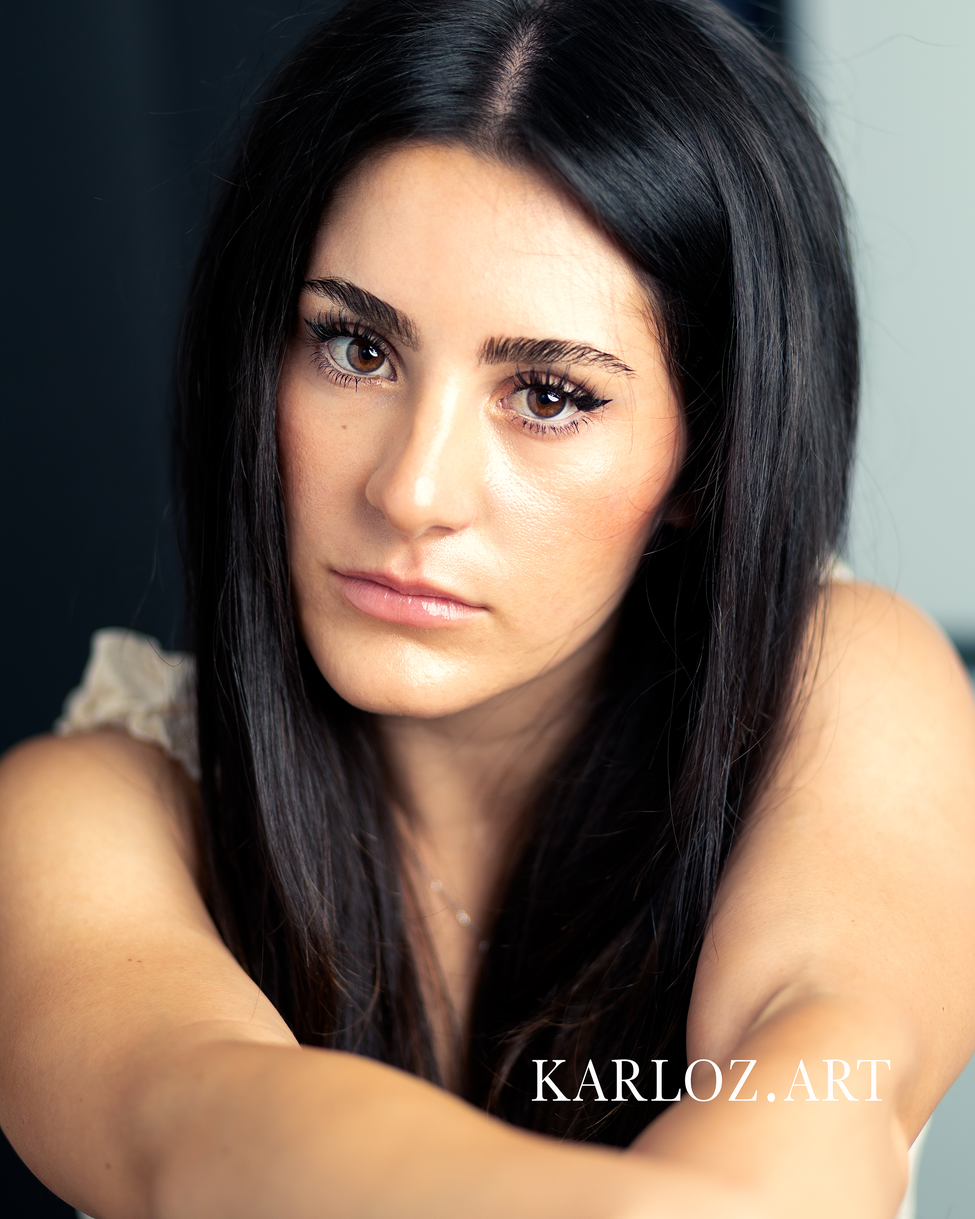
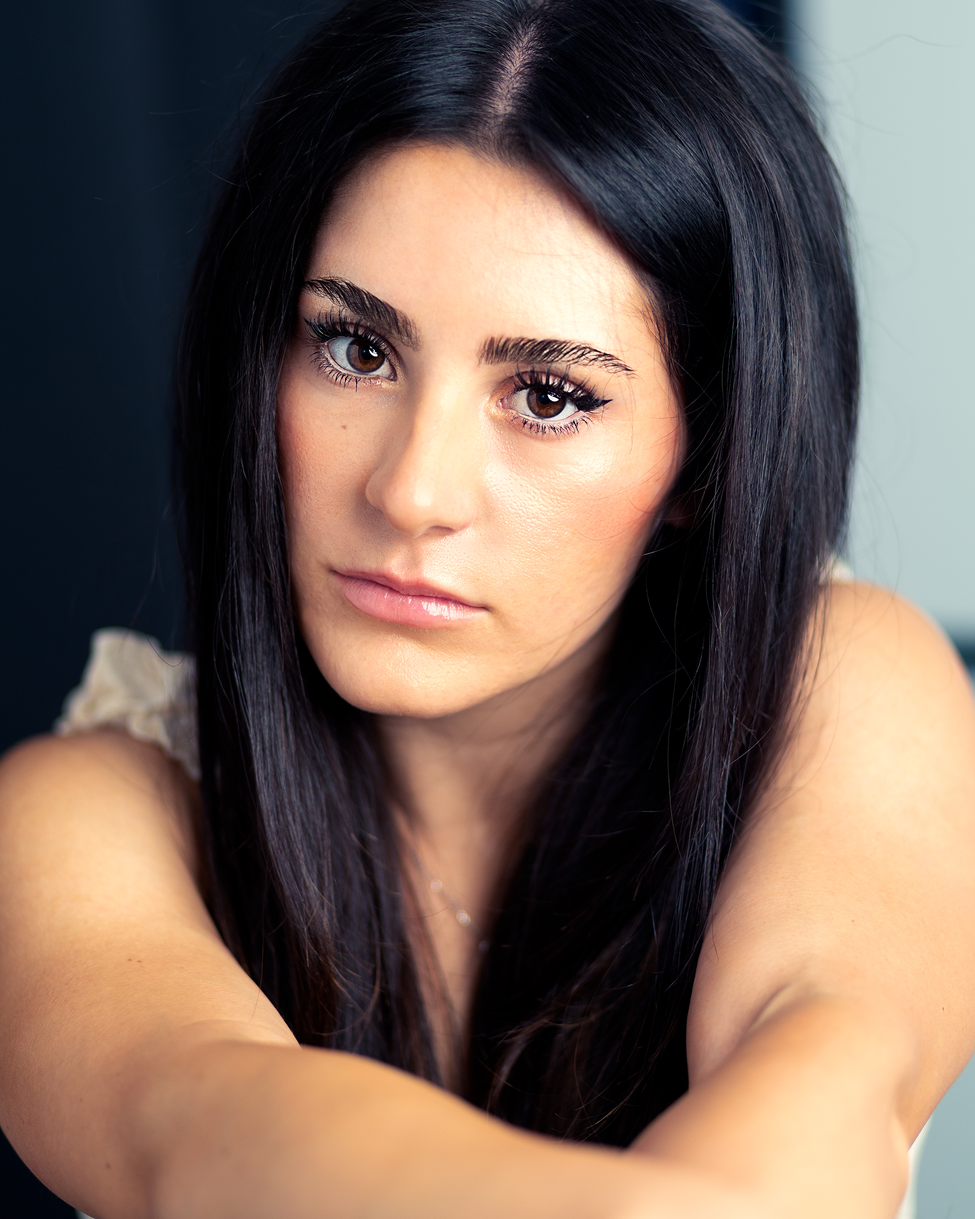
Add new sessions: Tamara (new set + B&W), Vanessa Herrera, Angelo; add testimonials: Jackie Saucer, Esther Kwon, Angelo Almario; reorder Delia, Sara/Daniel

diff --git a/index.html b/index.html
@@ -94,11 +94,11 @@
     <div class="grid-item session-extra" data-session="aaron_witt" data-label="Aaron Witt" data-full="photos/aaron_witt5.jpg">
       <img src="photos/thumbs/aaron_witt5.jpg" alt="Actor headshot Los Angeles" loading="lazy" /></div>
 
-    <!-- Daniel Diaz -->
-    <div class="grid-item" data-session="daniel_diaz" data-label="Daniel Diaz" data-full="photos/daniel_diaz.jpg">
-      <img src="photos/thumbs/daniel_diaz.jpg" alt="Actor headshot Los Angeles" loading="lazy" /></div>
-    <div class="grid-item session-extra" data-session="daniel_diaz" data-label="Daniel Diaz" data-full="photos/daniel_diaz2.jpg">
-      <img src="photos/thumbs/daniel_diaz2.jpg" alt="Actor headshot Los Angeles" loading="lazy" /></div>
+    <!-- Sara Yigin -->
+    <div class="grid-item" data-session="sara_yigin" data-label="Sara Yigin" data-full="photos/sara_yigin.jpg">
+      <img src="photos/thumbs/sara_yigin.jpg" alt="Actress headshot Los Angeles" loading="lazy" /></div>
+    <div class="grid-item session-extra" data-session="sara_yigin" data-label="Sara Yigin" data-full="photos/sara_yigin2.jpg">
+      <img src="photos/thumbs/sara_yigin2.jpg" alt="Actress headshot Los Angeles" loading="lazy" /></div>
     <!-- Lily Cadot -->
     <div class="grid-item" data-session="lily_cadot" data-label="Lily Cadot" data-full="photos/lily_cadot.jpg">
       <img src="photos/thumbs/lily_cadot.jpg" alt="Actress headshot Los Angeles" loading="lazy" /></div>
@@ -108,11 +108,11 @@
       <img src="photos/thumbs/lily_cadot3.jpg" alt="Actress headshot Los Angeles" loading="lazy" /></div>
     <div class="grid-item session-extra" data-session="lily_cadot" data-label="Lily Cadot" data-full="photos/lily_cadot4.jpg">
       <img src="photos/thumbs/lily_cadot4.jpg" alt="Actress headshot Los Angeles" loading="lazy" /></div>
-    <!-- Sara Yigin -->
-    <div class="grid-item" data-session="sara_yigin" data-label="Sara Yigin" data-full="photos/sara_yigin.jpg">
-      <img src="photos/thumbs/sara_yigin.jpg" alt="Actress headshot Los Angeles" loading="lazy" /></div>
-    <div class="grid-item session-extra" data-session="sara_yigin" data-label="Sara Yigin" data-full="photos/sara_yigin2.jpg">
-      <img src="photos/thumbs/sara_yigin2.jpg" alt="Actress headshot Los Angeles" loading="lazy" /></div>
+    <!-- Daniel Diaz -->
+    <div class="grid-item" data-session="daniel_diaz" data-label="Daniel Diaz" data-full="photos/daniel_diaz.jpg">
+      <img src="photos/thumbs/daniel_diaz.jpg" alt="Actor headshot Los Angeles" loading="lazy" /></div>
+    <div class="grid-item session-extra" data-session="daniel_diaz" data-label="Daniel Diaz" data-full="photos/daniel_diaz2.jpg">
+      <img src="photos/thumbs/daniel_diaz2.jpg" alt="Actor headshot Los Angeles" loading="lazy" /></div>
 
     <!-- Nathan -->
     <div class="grid-item" data-session="nathan" data-label="Nathan" data-full="photos/nathan.jpg">
@@ -157,10 +157,10 @@
       <img src="photos/thumbs/natalie4.jpg" alt="Headshot photographer Los Angeles" loading="lazy" /></div>
 
     <!-- Delia Niya -->
-    <div class="grid-item" data-session="delia" data-label="Delia Niya" data-full="photos/delia_niya.jpg">
-      <img src="photos/thumbs/delia_niya.jpg" alt="Headshot photographer Los Angeles" loading="lazy" /></div>
-    <div class="grid-item session-extra" data-session="delia" data-label="Delia Niya" data-full="photos/delia_niya2.jpg">
+    <div class="grid-item" data-session="delia" data-label="Delia Niya" data-full="photos/delia_niya2.jpg">
       <img src="photos/thumbs/delia_niya2.jpg" alt="Headshot photographer Los Angeles" loading="lazy" /></div>
+    <div class="grid-item session-extra" data-session="delia" data-label="Delia Niya" data-full="photos/delia_niya.jpg">
+      <img src="photos/thumbs/delia_niya.jpg" alt="Headshot photographer Los Angeles" loading="lazy" /></div>
     <div class="grid-item session-extra" data-session="delia" data-label="Delia Niya" data-full="photos/delia_niya3.jpg">
       <img src="photos/thumbs/delia_niya3.jpg" alt="Headshot photographer Los Angeles" loading="lazy" /></div>
     <div class="grid-item session-extra" data-session="delia" data-label="Delia Niya" data-full="photos/delia_niya4.jpg">
@@ -306,6 +306,9 @@
       <img src="photos/thumbs/armanian_old_man.jpg" alt="Actor headshot Los Angeles" loading="lazy" /></div>
     <div class="grid-item" data-session="bw-bridgit2" data-label="Bridgit" data-full="photos/bridgit2.jpg">
       <img src="photos/thumbs/bridgit2.jpg" alt="Portrait photographer Los Angeles" loading="lazy" /></div>
+    <!-- Black & White third row (added Oct 27 2026): Tamara -->
+    <div class="grid-item" data-session="bw-tamara" data-label="Tamara" data-full="photos/tamara_bw.jpg">
+      <img src="photos/thumbs/tamara_bw.jpg" alt="Portrait photographer Los Angeles" loading="lazy" /></div>
 
     <!-- Andres Zuniga -->
     <div class="grid-item" data-session="andres" data-label="Andres Zuniga" data-full="photos/andres_zuniga.jpg">
@@ -402,10 +405,12 @@
     <!-- Tamara -->
     <div class="grid-item" data-session="tamara" data-label="Tamara" data-full="photos/tamara.jpg">
       <img src="photos/thumbs/tamara.jpg" alt="Portrait photographer Los Angeles" loading="lazy" /></div>
+    <div class="grid-item session-extra" data-session="tamara" data-label="Tamara" data-full="photos/tamara2.jpg">
+      <img src="photos/thumbs/tamara2.jpg" alt="Portrait photographer Los Angeles" loading="lazy" /></div>
 
-    <!-- Vanessa (2026 session) -->
-    <div class="grid-item" data-session="vanessa2026" data-label="Vanessa" data-full="photos/vanessa_2026.jpg">
-      <img src="photos/thumbs/vanessa_2026.jpg" alt="Actress headshot Los Angeles" loading="lazy" /></div>
+    <!-- Vanessa Herrera (2026 session) -->
+    <div class="grid-item" data-session="vanessa2026" data-label="Vanessa Herrera" data-full="photos/vanessa_herrera.jpg">
+      <img src="photos/thumbs/vanessa_herrera.jpg" alt="Actress headshot Los Angeles" loading="lazy" /></div>
 
     <!-- Carlson -->
     <div class="grid-item" data-session="carlson" data-label="Carlson" data-full="photos/carlson.jpg">
@@ -503,6 +508,10 @@
     <!-- Adam Flores -->
     <div class="grid-item" data-session="adam_flores" data-label="Adam Flores" data-full="photos/adam_flores.jpg">
       <img src="photos/thumbs/adam_flores.jpg" alt="Actor headshot Los Angeles" loading="lazy" /></div>
+
+    <!-- Angelo -->
+    <div class="grid-item" data-session="angelo" data-label="Angelo" data-full="photos/angelo.jpg">
+      <img src="photos/thumbs/angelo.jpg" alt="Actor headshot Los Angeles" loading="lazy" /></div>
 
   </div>
 

diff --git a/testimonials.html b/testimonials.html
@@ -101,6 +101,18 @@
 
       <div class="testimonial-card">
         <div class="t-quote-mark">"</div>
+        <p class="t-quote">Karloz is a master of his craft! The knowledge, direction, and freedom he created allows a space of comfortability &amp; authenticity to shine through your headshots. He will get you booked with these photos. Very grateful I went to him.</p>
+        <div class="t-author">
+          <div class="t-avatar"><img src="photos/jackie.jpg" alt="Jackie Saucer" loading="lazy" /></div>
+          <div>
+            <p class="t-name">Jackie Saucer</p>
+            <p class="t-role">Actor</p>
+          </div>
+        </div>
+      </div>
+
+      <div class="testimonial-card">
+        <div class="t-quote-mark">"</div>
         <p class="t-quote">I had an amazing experience working with Carlos Flores for my headshots. From the very beginning, he was incredibly communicative and gave clear, descriptive direction that made the entire process feel easy and comfortable. He knew exactly how to guide me into natural poses while still making sure we got the best possible shots. What stood out to me the most was how encouraging he was throughout the session. He constantly built my confidence by pointing out what I was doing well, telling me I looked natural, and reminding me to just have fun. As someone who struggles with self confidence, hearing those genuine words of encouragement meant more than I can express. He created such a positive, supportive environment that I was able to relax and truly enjoy the experience. The final photos turned out absolutely incredible, and I couldn&rsquo;t be happier with them. Carlos is not only an incredibly talented photographer but also someone who genuinely wants his clients to feel confident and leave with photos they&rsquo;re proud of. I highly recommend him to anyone looking for professional headshots or a photographer who truly cares about bringing out your best.</p>
         <div class="t-author">
           <div class="t-avatar"><img src="photos/maya.jpg" alt="Maya" loading="lazy" /></div>
@@ -227,6 +239,18 @@
           <div>
             <p class="t-name">Milena Saboya</p>
             <p class="t-role">Actress</p>
+          </div>
+        </div>
+      </div>
+
+      <div class="testimonial-card">
+        <div class="t-quote-mark">"</div>
+        <p class="t-quote">Carlos is professional, friendly, and immediately puts you at ease. He&rsquo;s been in photography for a long time and knows what he&rsquo;s doing. He&rsquo;s great to work with!!</p>
+        <div class="t-author">
+          <div class="t-avatar"><img src="photos/esther.jpg" alt="Esther Kwon" loading="lazy" /></div>
+          <div>
+            <p class="t-name">Esther Kwon</p>
+            <p class="t-role">Dancer</p>
           </div>
         </div>
       </div>
@@ -503,6 +527,18 @@
           <div>
             <p class="t-name">Adam Flores</p>
             <p class="t-role">Actor</p>
+          </div>
+        </div>
+      </div>
+
+      <div class="testimonial-card">
+        <div class="t-quote-mark">"</div>
+        <p class="t-quote">Awesome experience haven&rsquo;t had a photoshoot gig from a long time thanks for the opportunity Carlos!</p>
+        <div class="t-author">
+          <div class="t-avatar"><img src="photos/angelo.jpg" alt="Angelo Almario" loading="lazy" /></div>
+          <div>
+            <p class="t-name">Angelo Almario</p>
+            <p class="t-role">Background Actor</p>
           </div>
         </div>
       </div>
